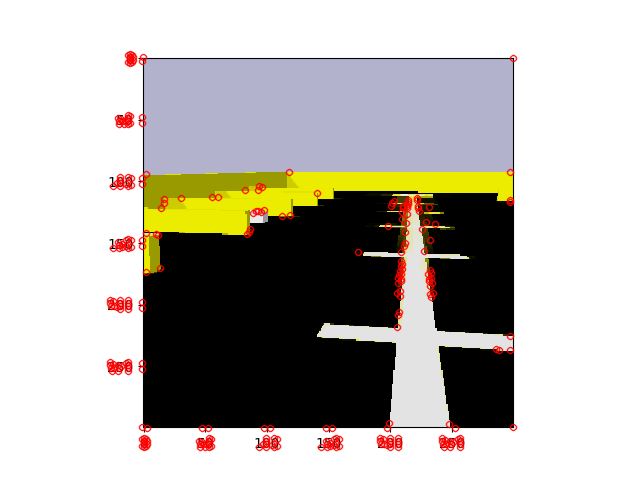
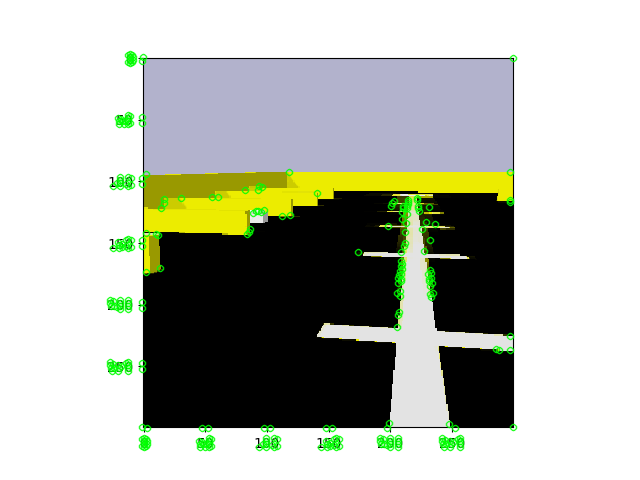
pics

diff --git a/Feature_Extraction/fast_feature_extraction.py b/Feature_Extraction/fast_feature_extraction.py
@@ -1,6 +1,24 @@
 import numpy as np
 import cv2
 from matplotlib import pyplot as plt
+######
+import skimage
+from skimage.viewer import ImageViewer
+import sys
+######
+
+# image = skimage.io.imread(fname='./simulated_images_input/'+'s_' + 1 + '.png')
+# viewer = ImageViewer(image)
+# viewer.show()
+
+
+
+
+
+
+##sigma = float(sys.argv[2])
+
+
 
 # Create FAST object with default values
 fast = cv2.FastFeatureDetector_create()
@@ -12,17 +30,46 @@ for i in range(10):
     img = cv2.imread('./simulated_images_input/' + filename_i,1)
     # find and draw the keypoints
     kp = fast.detect(img, None)
-    img2 = cv2.drawKeypoints(img, kp, None, color=(0,0,255))
+    img2 = cv2.drawKeypoints(img, kp, None, color=(0,255,0))
+    # plt.imshow(img2),plt.show()
+
+
+    ##Gaussian Blur Application
+    
+
+    # blur = cv2.GaussianBlur(img,(5,5),0)
+    # cv2.imshow("Gaussian Smoothing",np.hstack((img, blur)))
+
+
+
+
+
     filename_o = 'FAST_s_' + num + '.png'
     cv2.imwrite('./FAST_output/FAST_simulated_output/' + filename_o,img2)
 
 # Plot features on images from playing field
+
+
+
+##### look into changing the intensity for FAST - is there a parameter i can provide/change
+
 for i in range(10):
     num = str(i + 1)
     filename_i = 'r_' + num + '.png'   
     img = cv2.imread('./real_images_input/' + filename_i,1)
     # find and draw the keypoints
     kp = fast.detect(img, None)
-    img2 = cv2.drawKeypoints(img, kp, None, color=(0,0,255))
+
+    ##Gaussian Blur Application
+    # blurred = skimage.filters.gaussian(img, (5,5), truncate=3.5, multichannel=True)
+    # viewer = ImageViewer(blurred)
+    blurred = cv2.blur(img,(100, 100))
+    # viewer.show()
+
+
+
+    img2 = cv2.drawKeypoints(blurred, kp, None, color=(0,255,0))
+    plt.imshow(img2),plt.show()
+
     filename = 'FAST_r_' + num + '.png'
     cv2.imwrite('./FAST_output/FAST_real_output/' + filename,img2)
